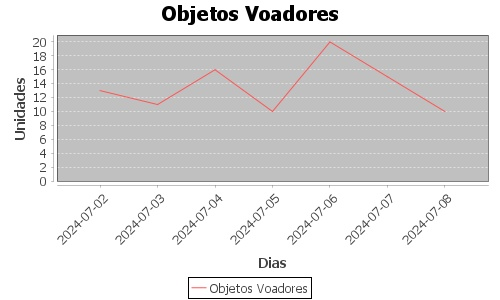
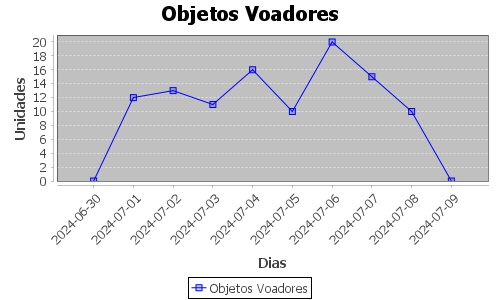
att o gráfico para azul com pontos

diff --git a/src/main/java/br/com/unisc/trabpa/model/Grafico.java b/src/main/java/br/com/unisc/trabpa/model/Grafico.java
@@ -16,6 +16,7 @@ import java.time.format.DateTimeFormatter;
 import java.time.LocalDate;
 import java.text.SimpleDateFormat;
 import br.com.unisc.trabpa.model.ObjetoVoador;
+import java.awt.Color;
 import org.jfree.chart.*;
 import org.jfree.chart.axis.CategoryAxis;
 import org.jfree.chart.axis.CategoryLabelPositions;
@@ -29,6 +30,7 @@ import org.jfree.chart.axis.NumberAxis;
 import org.jfree.chart.axis.NumberTickUnit;
 import org.jfree.chart.plot.CategoryPlot;
 import org.jfree.chart.plot.XYPlot;
+import org.jfree.chart.renderer.category.LineAndShapeRenderer;
 import org.jfree.data.category.DefaultCategoryDataset;
 
 /**
@@ -65,6 +67,13 @@ public class Grafico {
         // Customizar o eixo Y para pular de 2 em 2 unidades
         NumberAxis yAxis = (NumberAxis) plot.getRangeAxis();
         yAxis.setTickUnit(new NumberTickUnit(2));
+        
+        // Customiza a área ocupada do gráfico de azul
+        LineAndShapeRenderer renderer = new LineAndShapeRenderer();
+        renderer.setSeriesPaint(0, Color.BLUE);
+        renderer.setSeriesFillPaint(0, new Color(0, 0, 255, 50)); // Azul com transparência
+        renderer.setUseFillPaint(true);
+        plot.setRenderer(renderer);
 
         try {
             ChartUtilities.saveChartAsJPEG(new File("C:\\Users\\caiok\\OneDrive\\Documentos\\GitHub\\TrabPa1\\src\\main\\java\\view\\grafObjVoador.jpg"), chart, 500, 300);
@@ -100,11 +109,11 @@ public class Grafico {
 
     public DadosGrafico geraDados(ArrayList<ArrayList<ObjetoVoador>> matriz, String d) throws SQLException {
         DateTimeFormatter parser = DateTimeFormatter.ofPattern("yyyy-MM-dd");
-        LocalDate data = LocalDate.parse(d, parser).minusDays(3);
+        LocalDate data = LocalDate.parse(d, parser).minusDays(5);
         ArrayList<LocalDate> dias = new ArrayList<>();
         Grafico g = new Grafico();
 
-        for (int i = 0; i < 7; i++) {
+        for (int i = 0; i < 10; i++) {
             LocalDate currentDay = data.plusDays(i);
             dias.add(currentDay);
             matriz.add(g.dadosData(currentDay));
